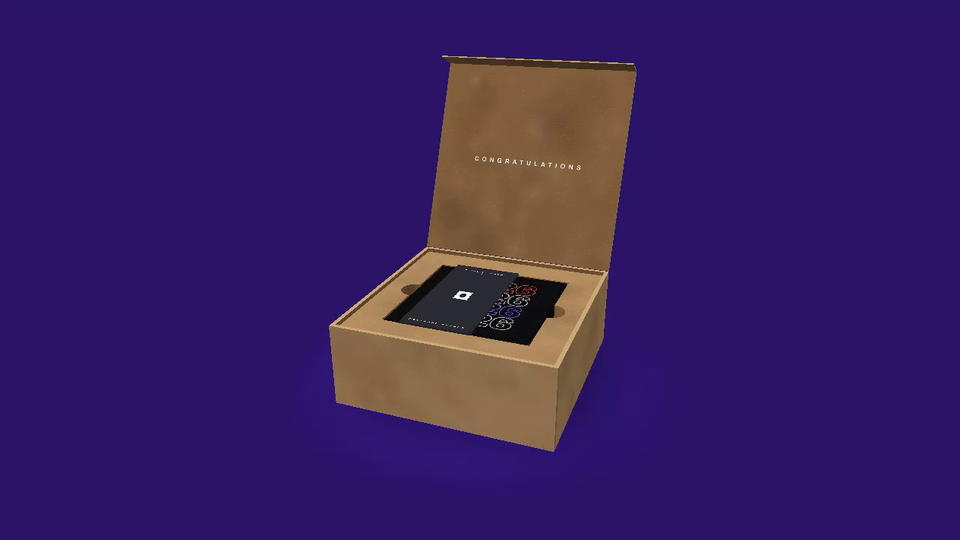
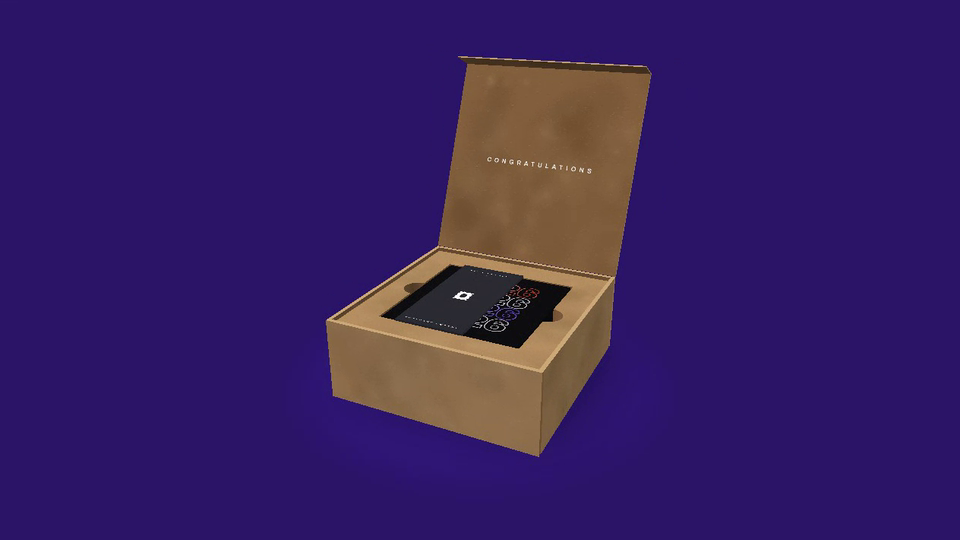
Postmark Awards Unboxing: glass drawn back to front so the quill tips show through the stamps from any angle, longer tips
Claude-Session: https://claude.ai/code/session_016rpguZhw5M1h1FTryY25yE

Changed region(s): [[0.3125, 0.0889, 0.6875, 0.8593], [0.3438, 0.6815, 0.4062, 0.7704], [0.4375, 0.7704, 0.4688, 0.8]]

diff --git a/postmark-awards-unboxing/index.html b/postmark-awards-unboxing/index.html
@@ -208,7 +208,7 @@ const STAMPS3 = PORC_STAMPS.map(([, , hw, hh, , c], i) => {
   return { C, N, R, d, tip, cx, cy, l, poly, tris: triangulate(poly), at, c: c ? RED : PURPLE };
 });
 /* each quill grows past its stamp: a thin, tapering tip comes out through the stamp's face and ends well beyond its edge */
-const STEM_P = STEM0.map((P, i) => { const S = STAMPS3[i], ext = 18 - STAMP_BACK + S.R * Math.abs(Math.sin(STAMP_TILT[i]));
+const STEM_P = STEM0.map((P, i) => { const S = STAMPS3[i], ext = 24 - STAMP_BACK + S.R * Math.abs(Math.sin(STAMP_TILT[i]));
   return P.map((p) => { const along = (p[0] - S.cx) * S.d[0] + (p[1] - S.cy) * S.d[1], w = cl((along - S.l * 0.3) / (S.l * 0.7), 0, 1); return [p[0] + S.d[0] * ext * w * w * w, p[1] + S.d[1] * ext * w * w * w]; }); });
 const STEM_T = STEM_P.map((p) => triangulate(p));
 /* the quills taper in thickness too: full glass at the body, a thin rod where they run through the stamps */
@@ -516,7 +516,10 @@ function triFlush() {
 }
 function glassDraw() {
   const gl = drawingContext; gl.depthMask(false);
-  if (GLS.length) { beginShape(TRIANGLES); for (let i = 0; i < GLS.length; i += 5) { const w = GLS[i]; fill(GLS[i + 1], GLS[i + 2], GLS[i + 3], GLS[i + 4] * 255); for (const p of w) vertex(p[0], -p[1], p[2]); } endShape(); }
+  if (GLS.length) { // back to front from the camera, so a quill tip in front of its stamp is drawn over it from any angle
+    const ord = []; for (let i = 0; i < GLS.length; i += 5) { const w = GLS[i], x = (w[0][0] + w[1][0] + w[2][0]) / 3 - CAM[0], y = (w[0][1] + w[1][1] + w[2][1]) / 3 - CAM[1], z = (w[0][2] + w[1][2] + w[2][2]) / 3 - CAM[2]; ord.push([x * x + y * y + z * z, i]); }
+    ord.sort((a, b) => b[0] - a[0]);
+    beginShape(TRIANGLES); for (const [, i] of ord) { const w = GLS[i]; fill(GLS[i + 1], GLS[i + 2], GLS[i + 3], GLS[i + 4] * 255); for (const p of w) vertex(p[0], -p[1], p[2]); } endShape(); }
   for (const q of GLT) { texture(q.tex); tint(255, 255, 255, q.a); beginShape(TRIANGLES); for (const [p, uv] of q.tris) vertex(p[0], -p[1], p[2], uv[0], uv[1]); endShape(); }
   tint(255, 255, 255, 255); gl.depthMask(true);
 }
